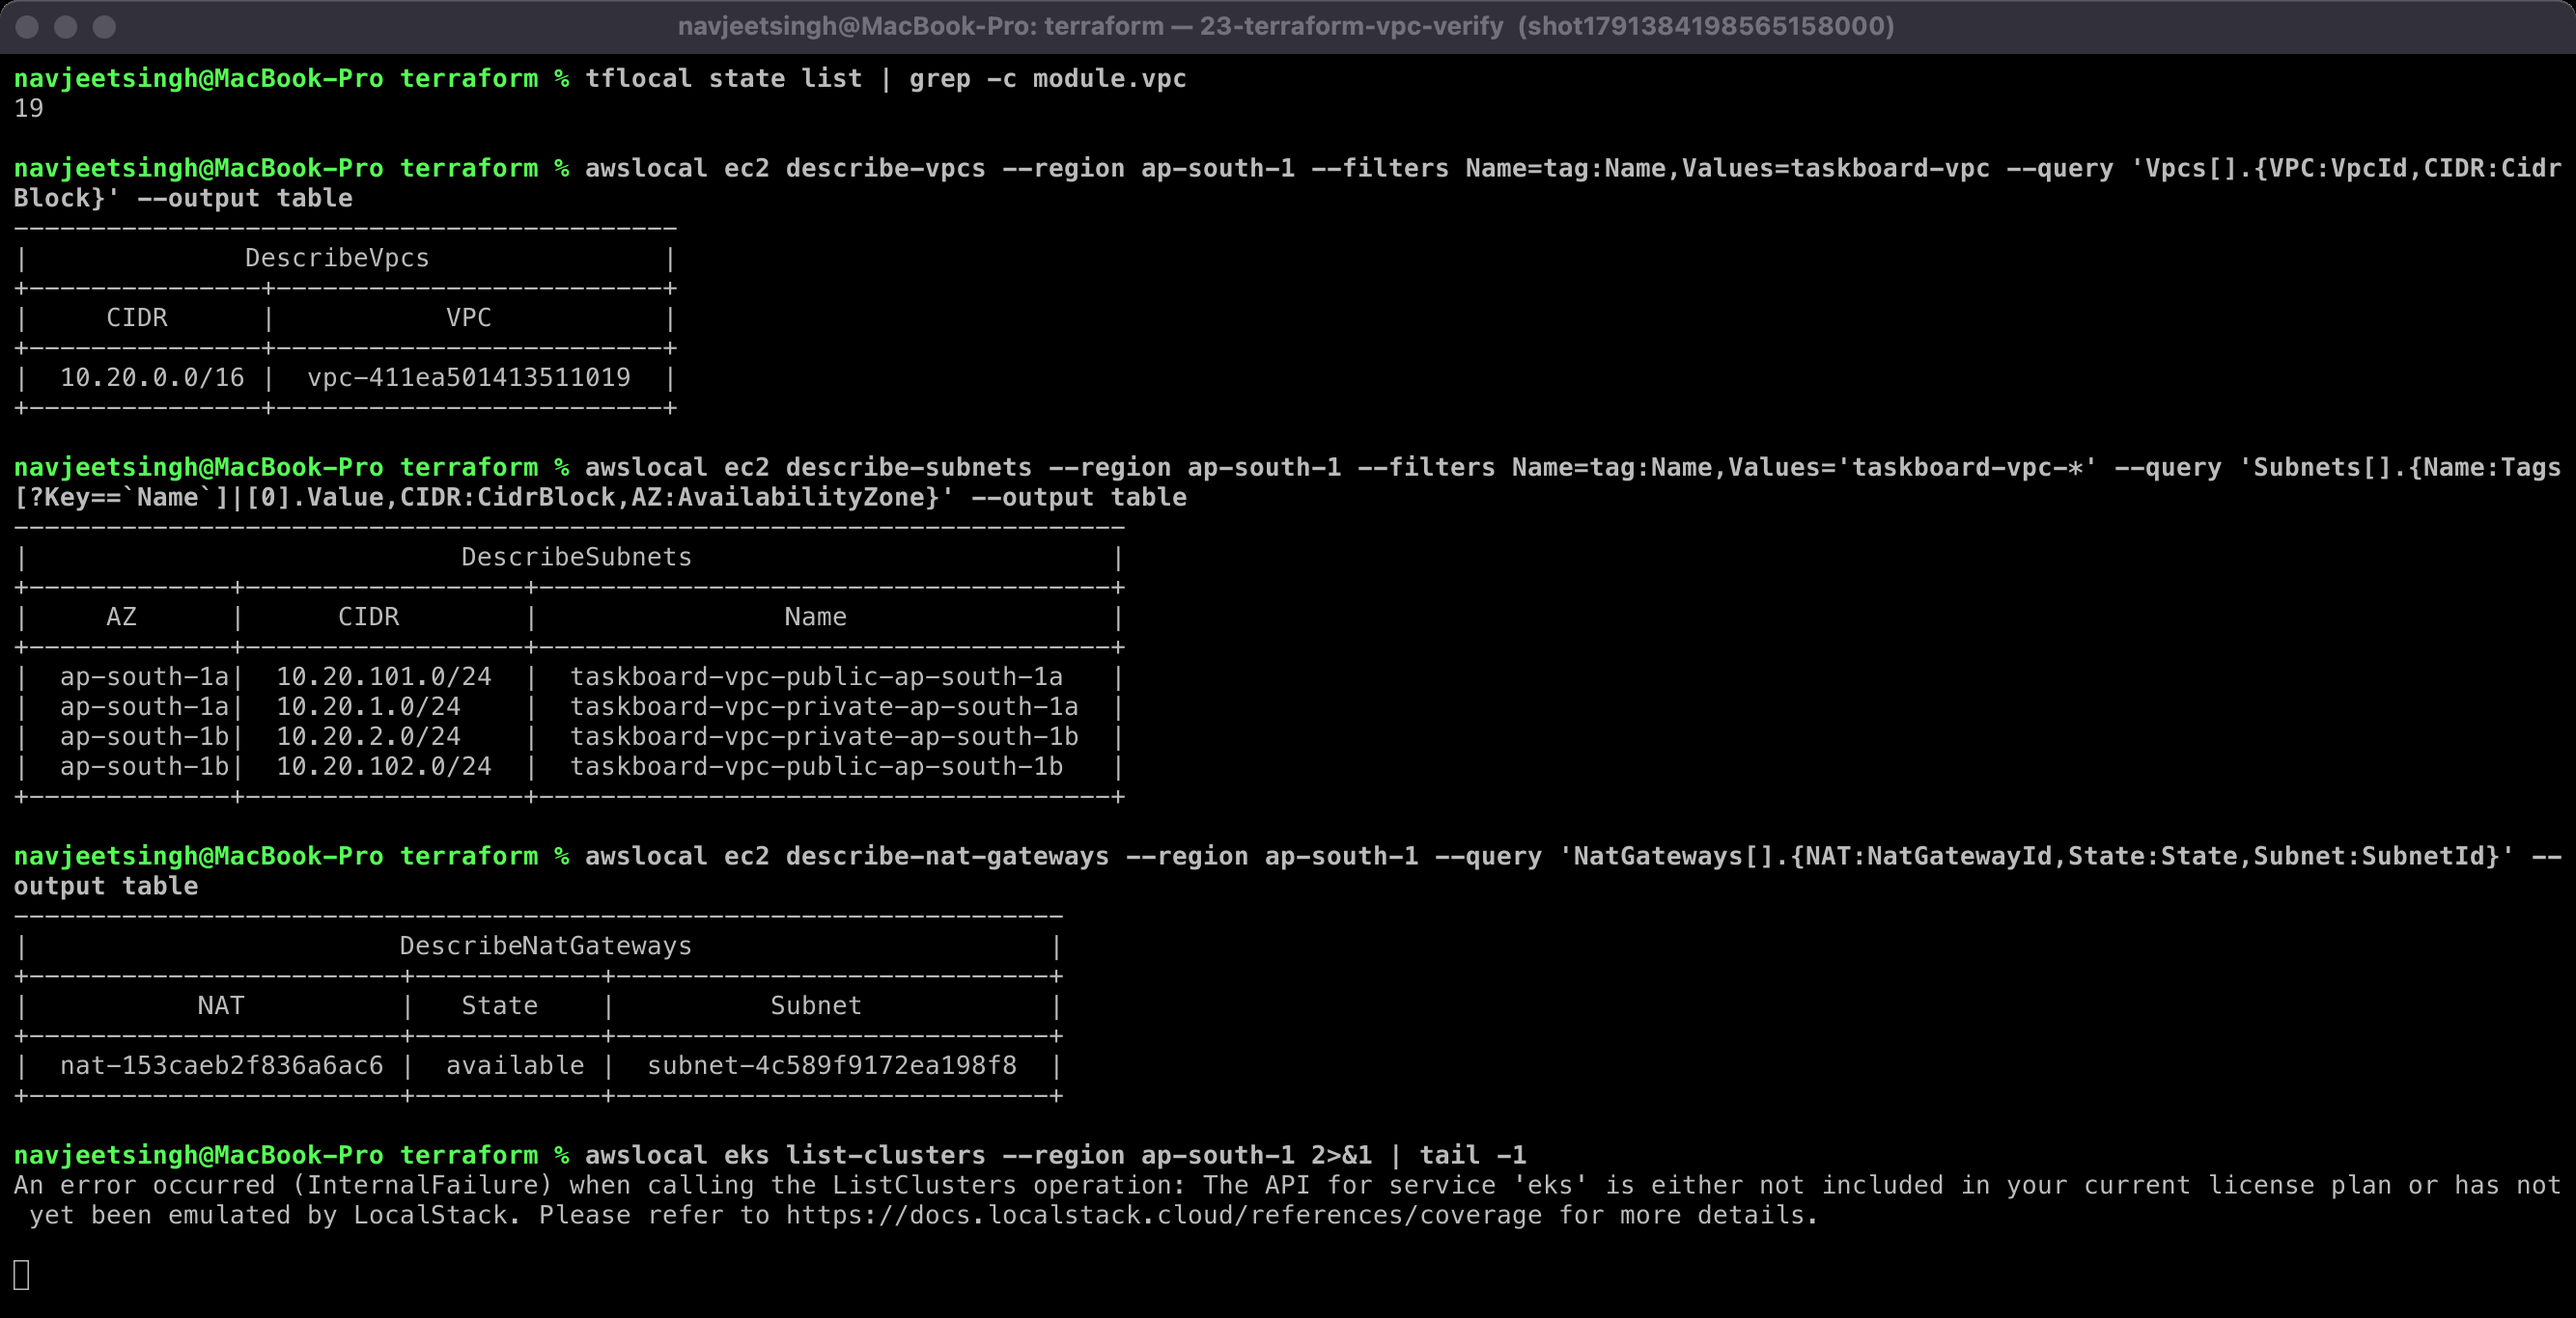
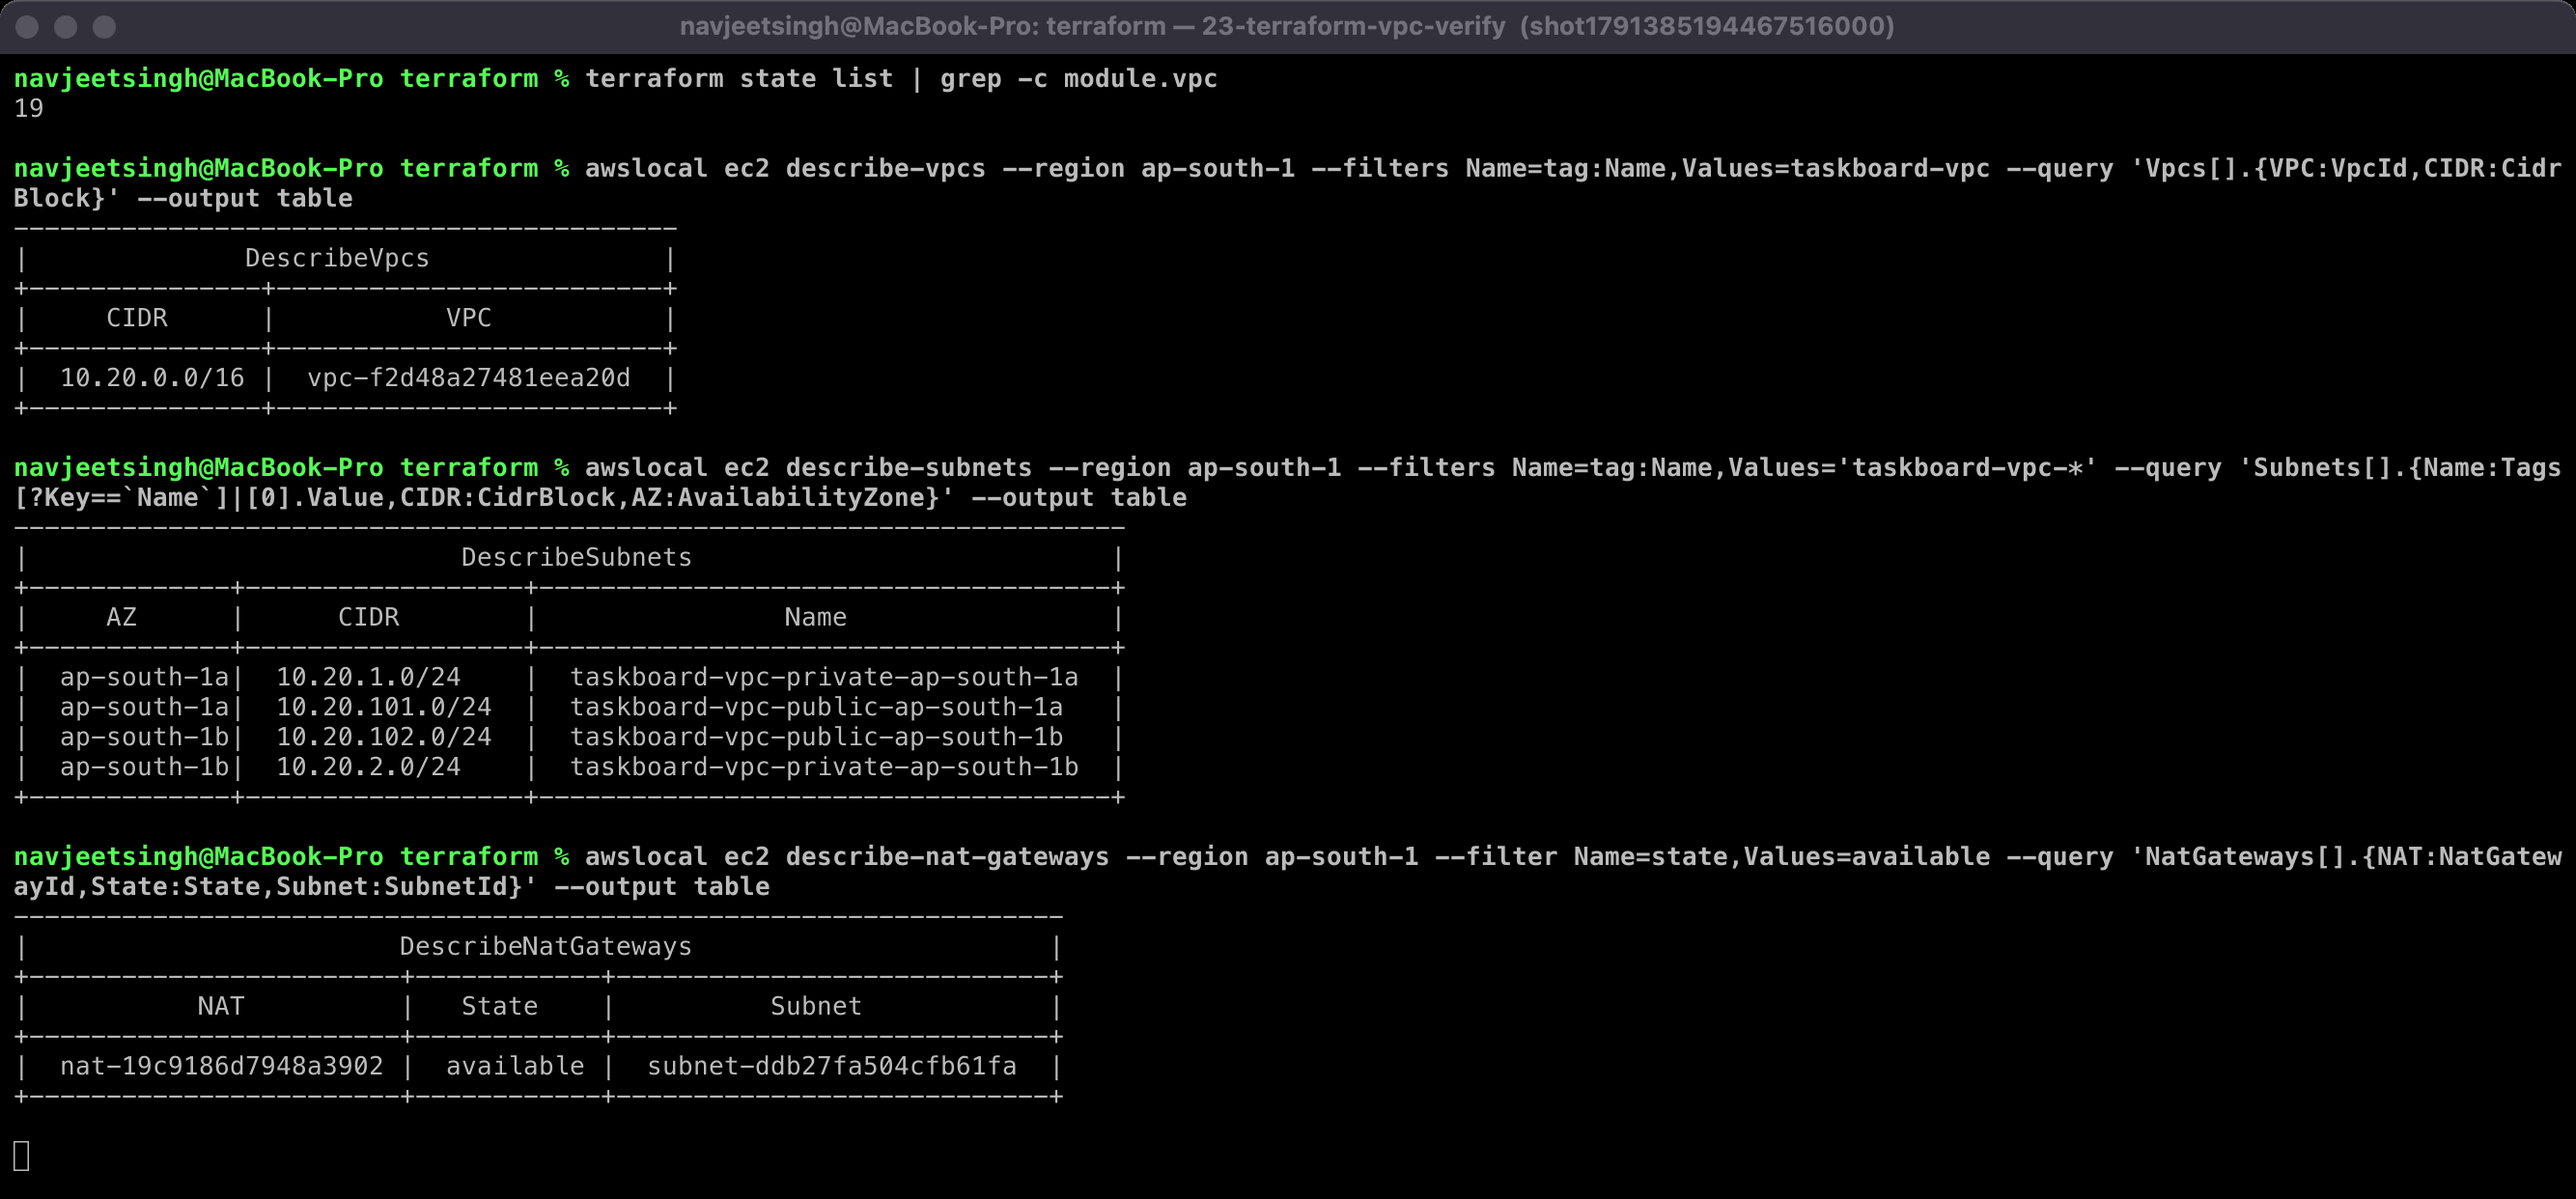
Session 21 README: simplify Terraform section

Changed region(s): [[0.0, 0.1224, 0.9955, 0.9485], [0.0, 0.0, 1.0, 0.0918]]

diff --git a/session21-python/homework/README.md b/session21-python/homework/README.md
@@ -150,7 +150,7 @@ After the fix, `init`, `fmt` and `validate` pass, and `plan` shows **54 resource
 
 ![tf plan](screenshots/21-terraform-plan.png)
 
-> I don't have an AWS account, so this was run against **LocalStack Community** (`tflocal`). LocalStack can emulate the VPC but **not EKS**; the screenshot shows its own "eks not emulated" error. So I applied the VPC module (`-target=module.vpc`, 19 resources), verified it, and destroyed it. On real AWS, `terraform apply` without `-target` creates the whole stack.
+I then applied the VPC module (`terraform apply -target=module.vpc`, 19 resources), verified the VPC, subnets and NAT gateway, and destroyed it.
 
 ![tf apply](screenshots/22-terraform-apply-vpc.png)
 
@@ -280,4 +280,3 @@ All 33 are in [`screenshots/`](screenshots/), numbered in the order they were ta
 - **Keep secrets in Secrets.** The ConfigMap holds non-sensitive settings, and `DATABASE_URL` is built at runtime.
 - **GitOps closes the loop.** CI never touches the cluster; it changes Git, and Argo CD makes the cluster match. Every deployment is a commit.
 - **Measure from a clean baseline.** My first HPA result was polluted by leftover load.
-- **Be honest about the environment.** EKS couldn't be emulated locally, so it is planned, not applied, and documented as such.
